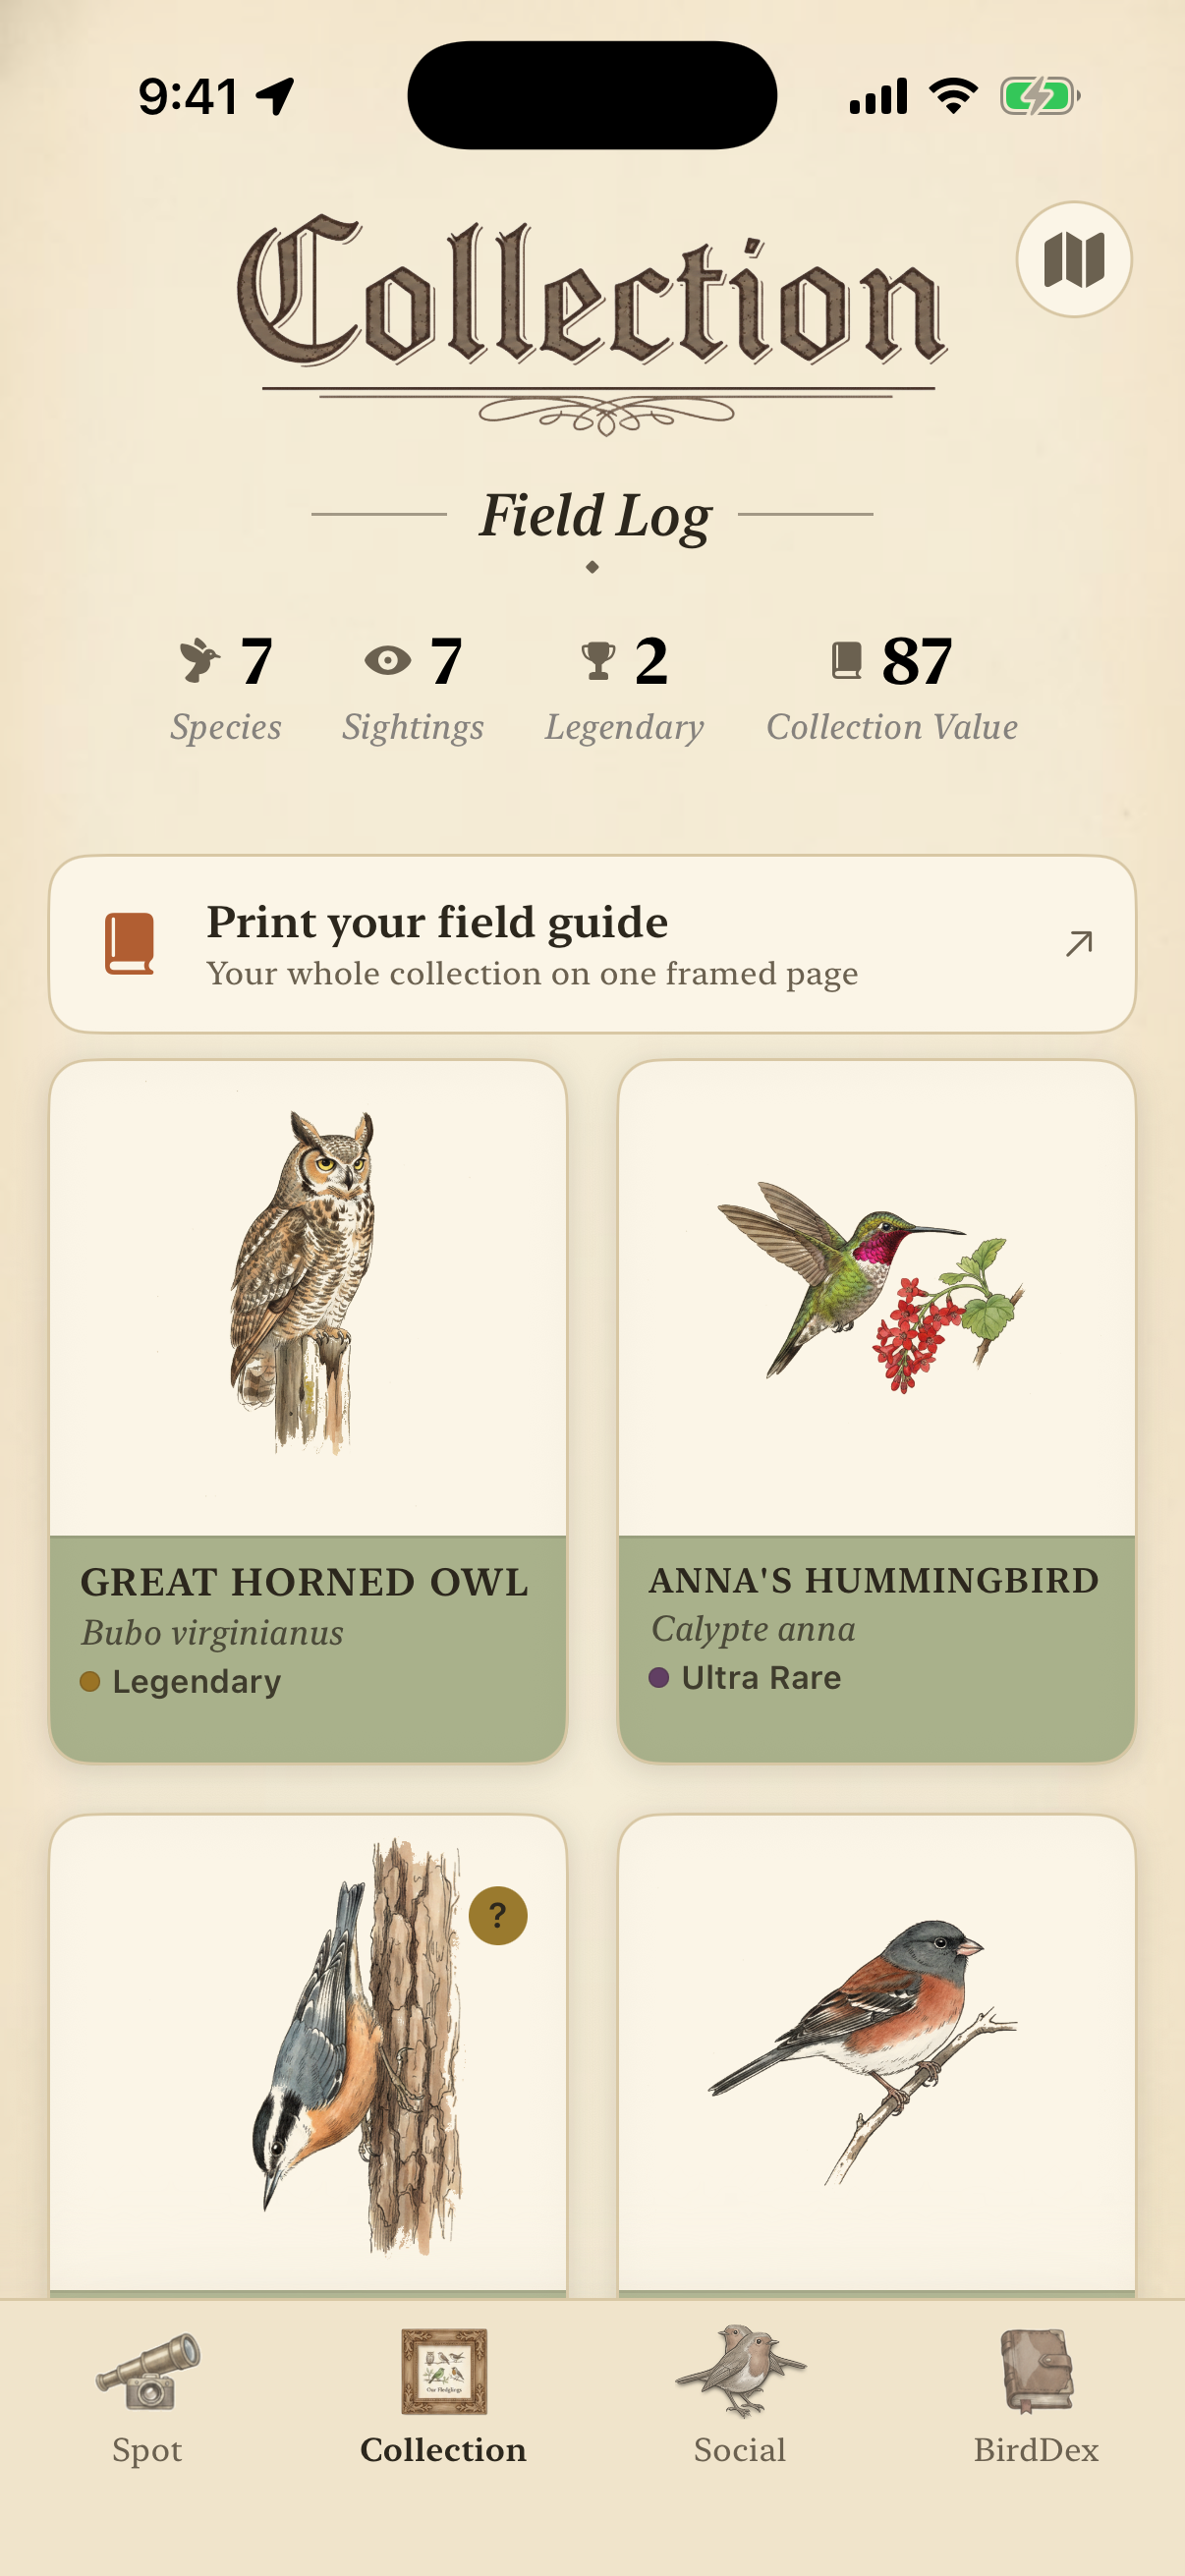
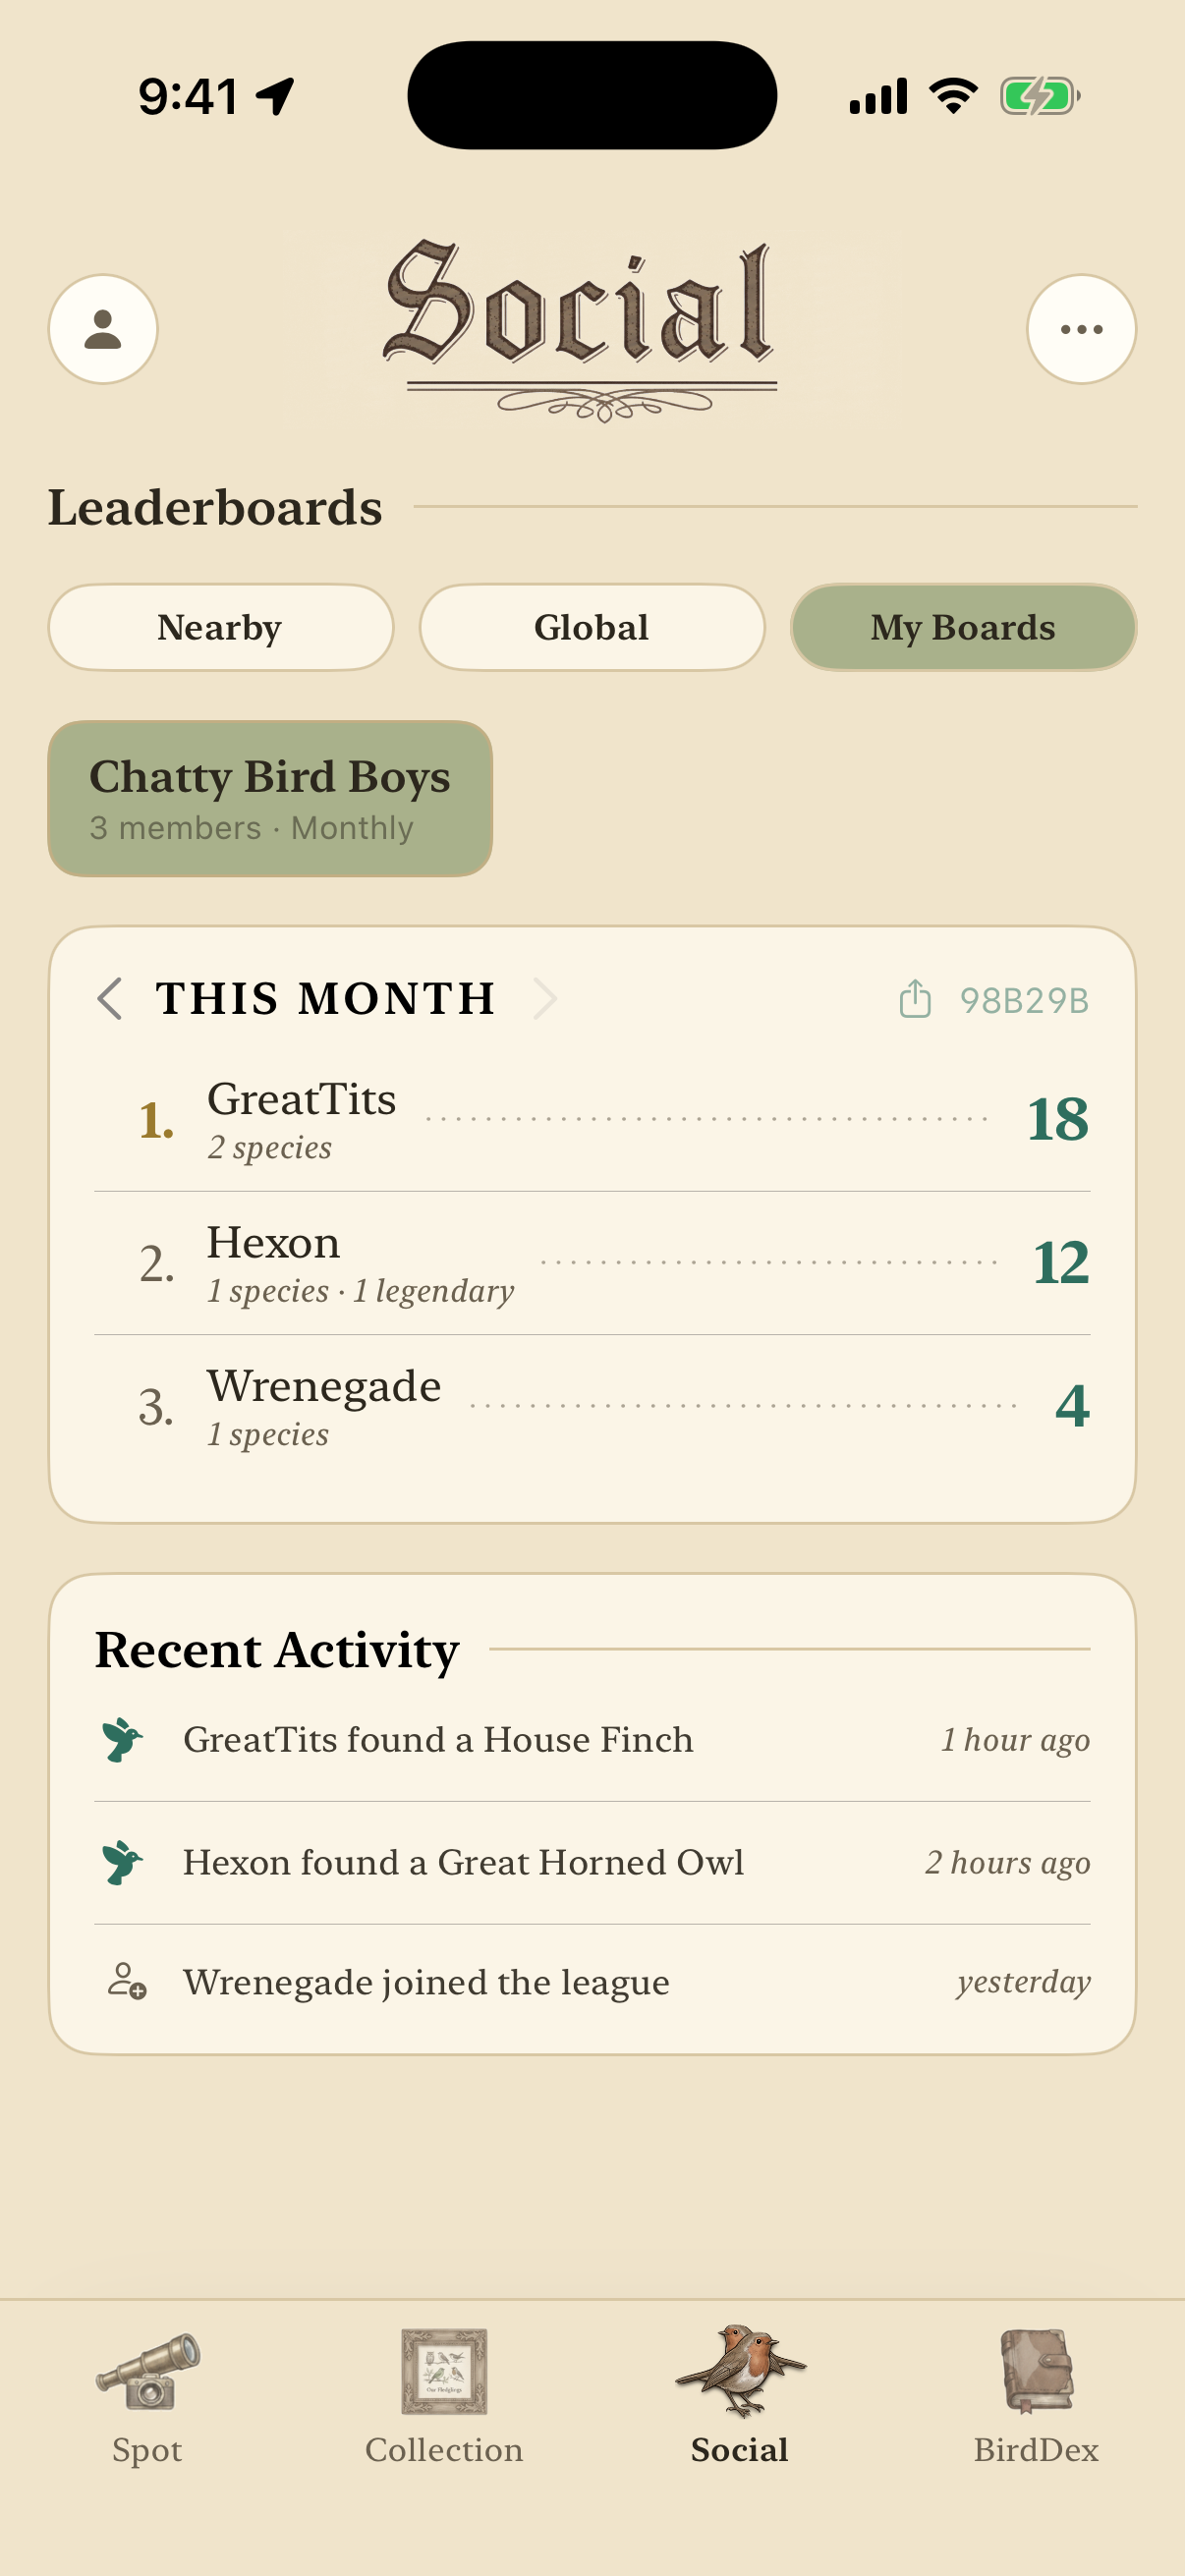
chore(site): 3rd tile is now the friends' league (Friends & streaks)
Swap the Collection shot for the Social/Leaderboards board — group standings
+ friends' activity feed — to match the "Friends & streaks" caption.

Claude-Session: https://claude.ai/code/session_01W9AETxrL2KQw82vs9t9Un7

diff --git a/app/page.tsx b/app/page.tsx
@@ -42,7 +42,7 @@ export default function Home() {
               <p>Every species, greyed until you find it — then it turns to full colour. Rarity, range and season on every page.</p>
             </div>
             <div className="card shot">
-              <div className="phone"><img src="/screen-badges.png" alt="A FeatherBound collection — illustrated cards by rarity, with legendaries and collection value" /></div>
+              <div className="phone"><img src="/screen-badges.png" alt="A FeatherBound friends' league — monthly leaderboard standings and a feed of friends' latest finds" /></div>
               <h3>Friends &amp; streaks</h3>
               <p>See what your friends have found, climb the leaderboards, keep a daily streak, and earn badges for the birds you chase.</p>
             </div>